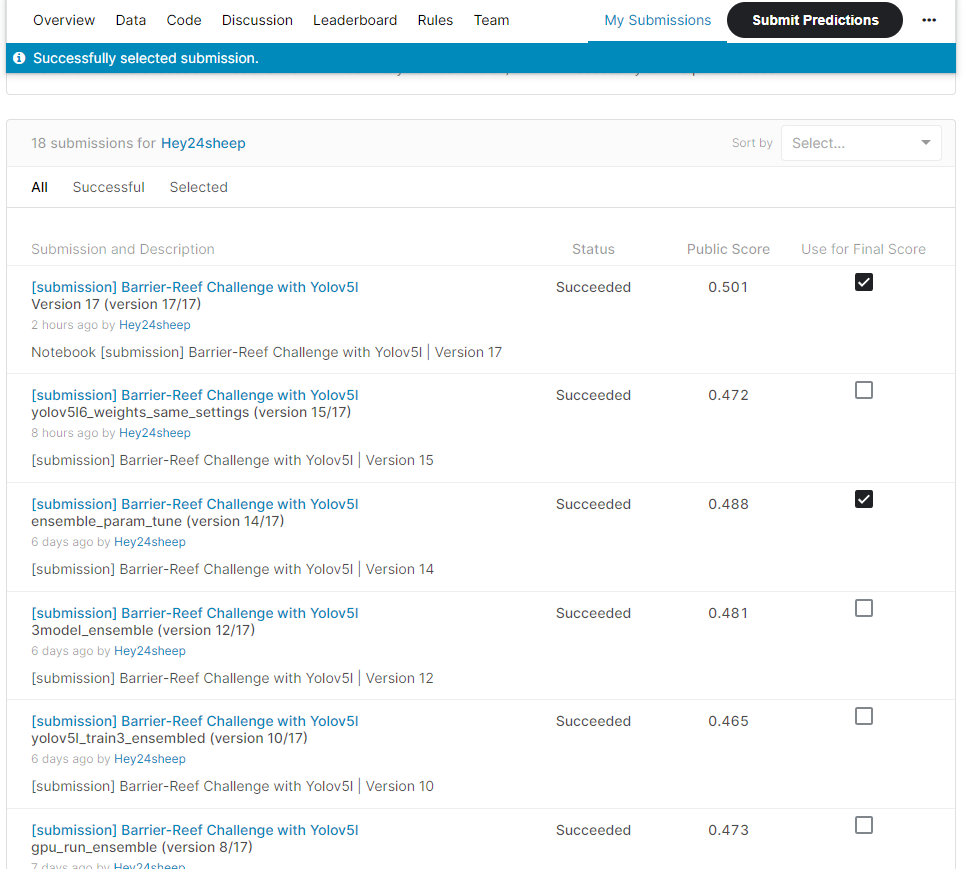
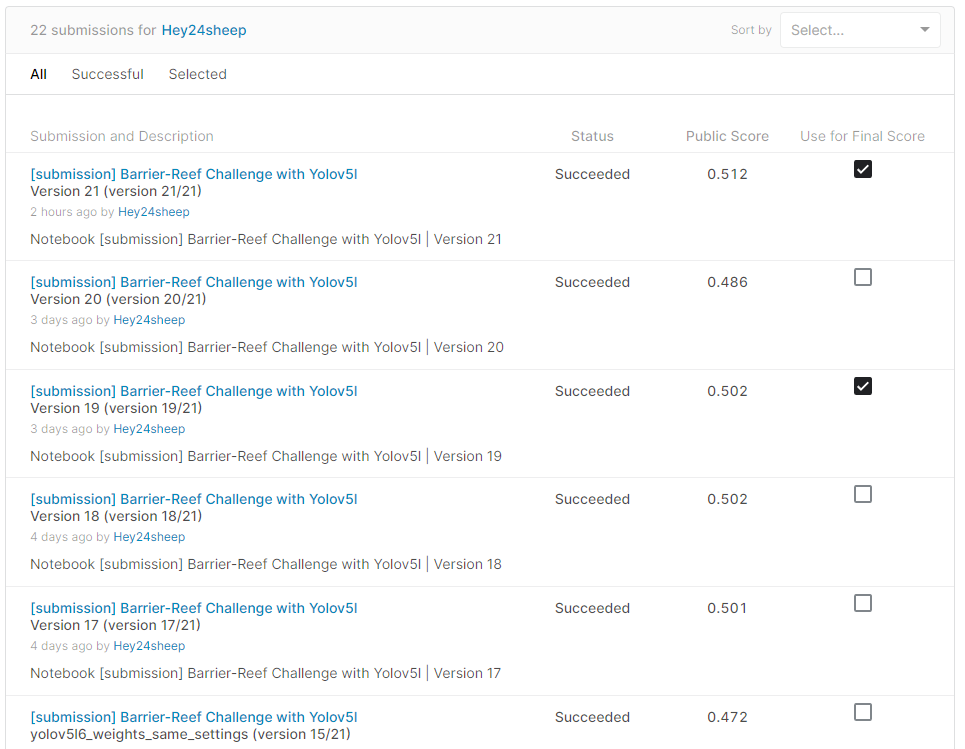
update

diff --git a/README.md b/README.md
@@ -2,9 +2,12 @@ This repo contains my trained models for Kaggle Competition - [TF Barrier Reef C
 
 Used Ultralytics/Yolov5 weights to re-train on Challenge Dataset.
 
-> NOTE : all weights of training are on Kaggle account private dataset.
+> NOTE : all weights of training are on my Kaggle account private dataset.
+
+> NOTE : all training is done on Kaggle Free GPU quota of 36 hours/week
 
 ## Leaderboard Scores
+- [30 Dec 2021] 1st Competitor : 0.658 || My Score : 0.512
 - [26 Dec 2021] 1st Competitor : 0.658 || My Score : 0.502
 - [20 Dec 2021] 1st Competitor : 0.619 || My Score : 0.488
 - [19 Dec 2021] 1st Competitor : 0.619 || My Score : 0.473
@@ -46,6 +49,10 @@ Used Ultralytics/Yolov5 weights to re-train on Challenge Dataset.
 	- Device : GPU
 	- Leaderboard Rank #1 score : 0.658
 
+- **Fifth submission**
+	- Same as previous with params modifications.
+	- Date : 30/Dec/2021
+	- **My score : 0.512**
 
 ## Model Train Log
 - "yolov5l train 1"
